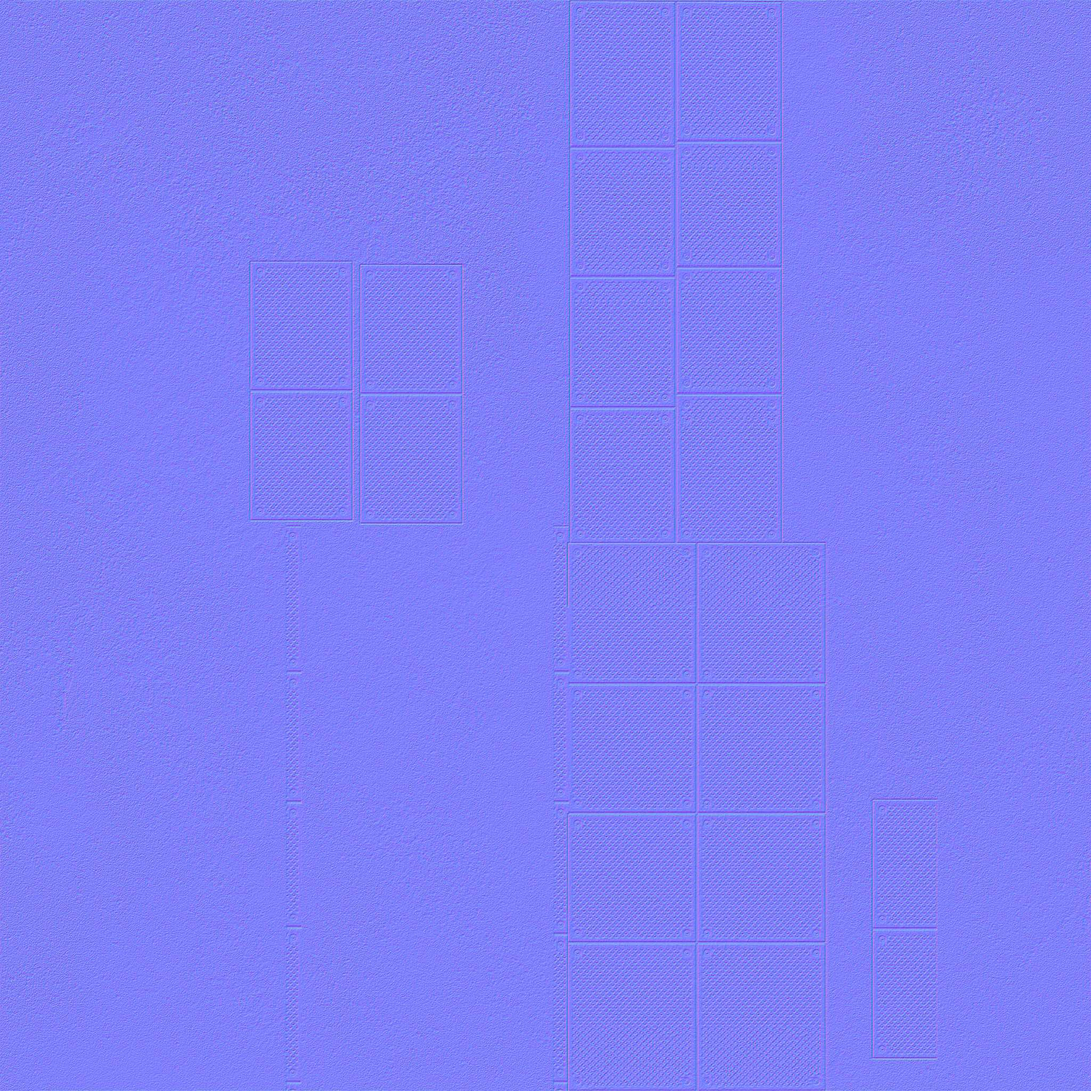
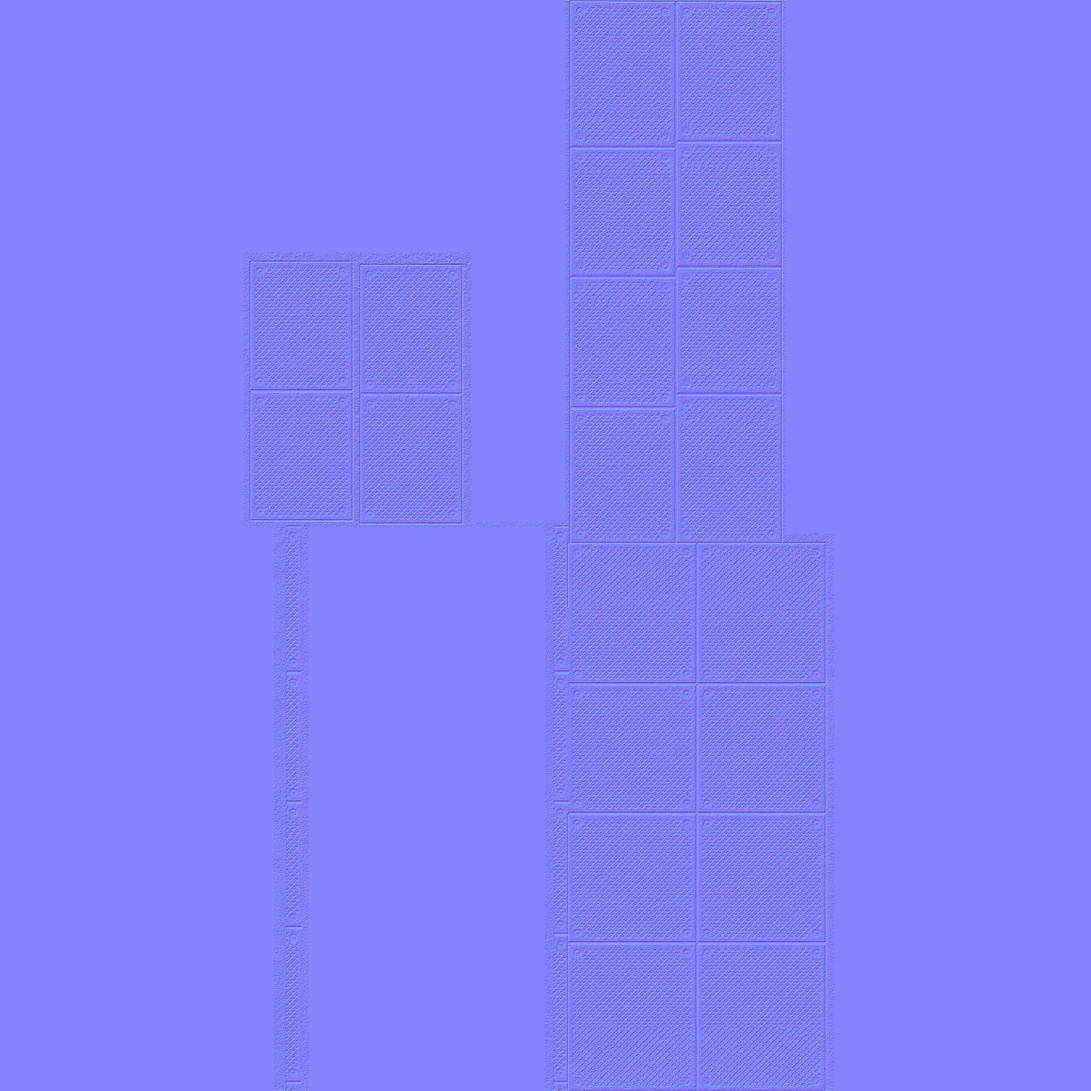
optimized textures

diff --git a/src/plugin/PopoverTray.tsx b/src/plugin/PopoverTray.tsx
@@ -10,7 +10,7 @@ import { useTheme } from "@mui/material/styles";
 import Paper from "@mui/material/Paper";
 import ButtonBase from "@mui/material/ButtonBase";
 
-import environment from "../environment.hdr";
+import environment from "../alienroom.jpg";
 import { usePlayerDice } from "./usePlayerDice";
 import { PlayerDiceRoll } from "./PlayerDiceRoll";
 import { AudioListenerProvider } from "../audio/AudioListenerProvider";
